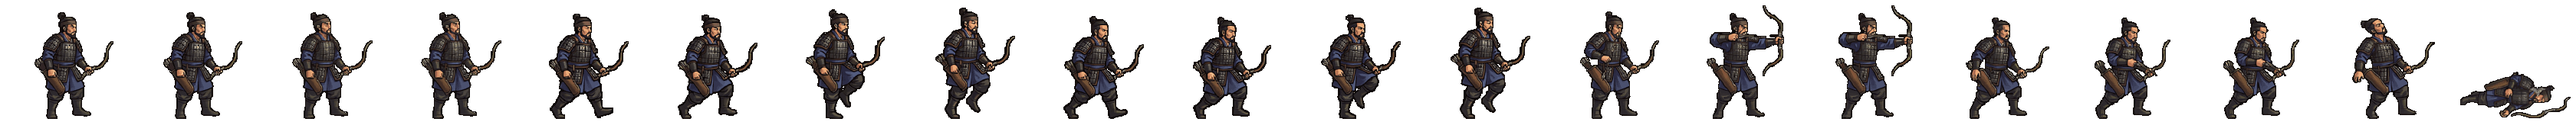
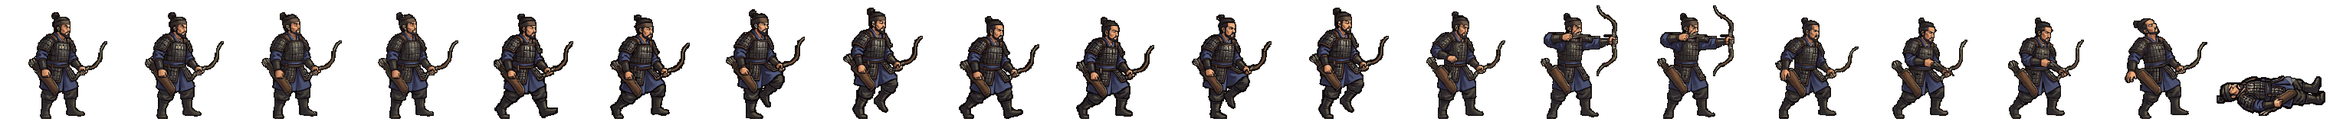
오간 띠: 쓰러짐 19칸만 새로 갈아 끼움 — 활이 칸 오른쪽에 잘리던 것 해결 (나머지 19칸은 그대로)
Claude-Session: https://claude.ai/code/session_01TRiuN9kn81xgdziumEqNAF

diff --git a/src/realm/data/spritePx.ts b/src/realm/data/spritePx.ts
@@ -1,2 +1,2 @@
 /** public/realm/anim-px/manifest.json 의 사본 — tools/sprite-normalize.mjs 가 만든다 (손으로 고치지 말 것). 칸 [가로, 세로] · feet = 발 줄(칸 위에서 y) · bodyPx = 서 있는 몸 키 */
-export const SPRITE_PX: Readonly<Record<string, { readonly cell: readonly [number, number]; readonly feet: number; readonly bodyPx: number; readonly kind: 'general' | 'soldier' | 'folk' | 'crowd'; readonly cells: number }>> = {"axe":{"cell":[166,128],"feet":126,"bodyPx":124,"kind":"soldier","cells":20},"bandit-chief":{"cell":[116,128],"feet":126,"bodyPx":117,"kind":"soldier","cells":20},"bandit-club":{"cell":[127,128],"feet":126,"bodyPx":116,"kind":"soldier","cells":20},"boat":{"cell":[269,128],"feet":126,"bodyPx":126,"kind":"soldier","cells":20},"bow":{"cell":[503,128],"feet":126,"bodyPx":127,"kind":"soldier","cells":20},"crossbow":{"cell":[614,128],"feet":126,"bodyPx":126,"kind":"soldier","cells":20},"gen-adogan":{"cell":[144,160],"feet":156,"bodyPx":70,"kind":"general","cells":20},"gen-alpyeong":{"cell":[144,160],"feet":156,"bodyPx":70,"kind":"general","cells":20},"gen-ara":{"cell":[160,160],"feet":156,"bodyPx":70,"kind":"general","cells":20},"gen-areum":{"cell":[160,160],"feet":156,"bodyPx":70,"kind":"general","cells":20},"gen-aryeong":{"cell":[208,160],"feet":156,"bodyPx":70,"kind":"general","cells":20},"gen-bakdal":{"cell":[160,160],"feet":156,"bodyPx":70,"kind":"general","cells":20},"gen-baram":{"cell":[176,160],"feet":156,"bodyPx":70,"kind":"general","cells":20},"gen-bdanbi":{"cell":[152,160],"feet":156,"bodyPx":70,"kind":"general","cells":20},"gen-beom":{"cell":[168,160],"feet":156,"bodyPx":70,"kind":"general","cells":20},"gen-beombal":{"cell":[216,160],"feet":156,"bodyPx":70,"kind":"general","cells":20},"gen-beomi":{"cell":[160,160],"feet":156,"bodyPx":70,"kind":"general","cells":20},"gen-bira":{"cell":[176,160],"feet":156,"bodyPx":70,"kind":"general","cells":20},"gen-biryu":{"cell":[160,160],"feet":156,"bodyPx":73,"kind":"general","cells":20},"gen-budeul":{"cell":[248,160],"feet":156,"bodyPx":70,"kind":"general","cells":20},"gen-byeol":{"cell":[160,160],"feet":156,"bodyPx":70,"kind":"general","cells":20},"gen-daemusin":{"cell":[152,160],"feet":156,"bodyPx":70,"kind":"general","cells":20},"gen-daeso":{"cell":[176,160],"feet":156,"bodyPx":70,"kind":"general","cells":20},"gen-dallae2":{"cell":[168,160],"feet":156,"bodyPx":70,"kind":"general","cells":20},"gen-dalli":{"cell":[152,160],"feet":156,"bodyPx":70,"kind":"general","cells":20},"gen-damul":{"cell":[152,160],"feet":156,"bodyPx":70,"kind":"general","cells":20},"gen-danbi":{"cell":[152,160],"feet":156,"bodyPx":70,"kind":"general","cells":20},"gen-dangung":{"cell":[192,160],"feet":156,"bodyPx":70,"kind":"general","cells":20},"gen-darae":{"cell":[152,160],"feet":156,"bodyPx":70,"kind":"general","cells":20},"gen-dokmudeom":{"cell":[176,160],"feet":156,"bodyPx":70,"kind":"general","cells":20},"gen-duman":{"cell":[160,160],"feet":156,"bodyPx":70,"kind":"general","cells":20},"gen-eomni":{"cell":[160,160],"feet":156,"bodyPx":70,"kind":"general","cells":20},"gen-eureum":{"cell":[144,160],"feet":156,"bodyPx":70,"kind":"general","cells":20},"gen-g-bow":{"cell":[144,160],"feet":156,"bodyPx":70,"kind":"general","cells":20},"gen-g-spear":{"cell":[208,160],"feet":156,"bodyPx":70,"kind":"general","cells":20},"gen-g-sword":{"cell":[192,160],"feet":156,"bodyPx":70,"kind":"general","cells":20},"gen-gaennae":{"cell":[232,160],"feet":156,"bodyPx":70,"kind":"general","cells":20},"gen-gamsil":{"cell":[160,160],"feet":156,"bodyPx":70,"kind":"general","cells":20},"gen-gaon":{"cell":[152,160],"feet":156,"bodyPx":70,"kind":"general","cells":20},"gen-geota":{"cell":[192,160],"feet":156,"bodyPx":69,"kind":"general","cells":20},"gen-geumbawi":{"cell":[160,160],"feet":156,"bodyPx":70,"kind":"general","cells":20},"gen-geumha":{"cell":[192,160],"feet":156,"bodyPx":72,"kind":"general","cells":20},"gen-goeun":{"cell":[144,160],"feet":156,"bodyPx":70,"kind":"general","cells":20},"gen-gom":{"cell":[168,160],"feet":156,"bodyPx":70,"kind":"general","cells":20},"gen-gomok":{"cell":[152,160],"feet":156,"bodyPx":70,"kind":"general","cells":20},"gen-gureum":{"cell":[168,160],"feet":156,"bodyPx":70,"kind":"general","cells":20},"gen-guryema":{"cell":[152,160],"feet":156,"bodyPx":70,"kind":"general","cells":20},"gen-gwaeyu":{"cell":[200,160],"feet":156,"bodyPx":70,"kind":"general","cells":20},"gen-haebi":{"cell":[152,160],"feet":156,"bodyPx":70,"kind":"general","cells":20},"gen-haedal":{"cell":[152,160],"feet":156,"bodyPx":70,"kind":"general","cells":20},"gen-haesol":{"cell":[168,160],"feet":156,"bodyPx":70,"kind":"general","cells":20},"gen-halla":{"cell":[176,160],"feet":156,"bodyPx":70,"kind":"general","cells":20},"gen-heo":{"cell":[144,160],"feet":156,"bodyPx":70,"kind":"general","cells":20},"gen-hneoul":{"cell":[152,160],"feet":156,"bodyPx":70,"kind":"general","cells":20},"gen-hogong":{"cell":[160,160],"feet":156,"bodyPx":70,"kind":"general","cells":20},"gen-hojin":{"cell":[152,160],"feet":156,"bodyPx":70,"kind":"general","cells":20},"gen-horselord":{"cell":[144,160],"feet":156,"bodyPx":70,"kind":"general","cells":20},"gen-hwalmi":{"cell":[192,160],"feet":156,"bodyPx":70,"kind":"general","cells":20},"gen-hyeokgeose":{"cell":[160,160],"feet":156,"bodyPx":70,"kind":"general","cells":20},"gen-hyeopbo":{"cell":[168,160],"feet":156,"bodyPx":70,"kind":"general","cells":20},"gen-irang":{"cell":[160,160],"feet":156,"bodyPx":70,"kind":"general","cells":20},"gen-jibaekho":{"cell":[160,160],"feet":156,"bodyPx":70,"kind":"general","cells":20},"gen-jinha":{"cell":[168,160],"feet":156,"bodyPx":70,"kind":"general","cells":20},"gen-jita":{"cell":[144,160],"feet":156,"bodyPx":70,"kind":"general","cells":20},"gen-jumong":{"cell":[144,160],"feet":156,"bodyPx":70,"kind":"general","cells":20},"gen-keundol":{"cell":[152,160],"feet":156,"bodyPx":70,"kind":"general","cells":20},"gen-maehwa":{"cell":[144,160],"feet":156,"bodyPx":70,"kind":"general","cells":20},"gen-maenun":{"cell":[136,160],"feet":156,"bodyPx":70,"kind":"general","cells":20},"gen-malgalgi":{"cell":[168,160],"feet":156,"bodyPx":70,"kind":"general","cells":20},"gen-mari":{"cell":[152,160],"feet":156,"bodyPx":70,"kind":"general","cells":20},"gen-maro":{"cell":[160,160],"feet":156,"bodyPx":70,"kind":"general","cells":20},"gen-maryeo":{"cell":[152,160],"feet":156,"bodyPx":70,"kind":"general","cells":20},"gen-mdallae":{"cell":[168,160],"feet":156,"bodyPx":70,"kind":"general","cells":20},"gen-mir":{"cell":[144,160],"feet":156,"bodyPx":70,"kind":"general","cells":20},"gen-mount":{"cell":[232,160],"feet":156,"bodyPx":73,"kind":"general","cells":20},"gen-mulbeom":{"cell":[160,160],"feet":156,"bodyPx":70,"kind":"general","cells":20},"gen-mulsae":{"cell":[168,160],"feet":156,"bodyPx":70,"kind":"general","cells":20},"gen-musoe":{"cell":[152,160],"feet":156,"bodyPx":70,"kind":"general","cells":20},"gen-noeul":{"cell":[160,160],"feet":156,"bodyPx":70,"kind":"general","cells":20},"gen-nuri":{"cell":[168,160],"feet":156,"bodyPx":70,"kind":"general","cells":20},"gen-ocheongan":{"cell":[168,160],"feet":156,"bodyPx":70,"kind":"general","cells":20},"gen-odi":{"cell":[152,160],"feet":156,"bodyPx":70,"kind":"general","cells":20},"gen-odogan":{"cell":[168,160],"feet":156,"bodyPx":70,"kind":"general","cells":20},"gen-ogan":{"cell":[168,160],"feet":156,"bodyPx":70,"kind":"general","cells":20},"gen-oi":{"cell":[152,160],"feet":156,"bodyPx":70,"kind":"general","cells":20},"gen-olddaeso":{"cell":[144,160],"feet":156,"bodyPx":70,"kind":"general","cells":20},"gen-onjo":{"cell":[152,160],"feet":156,"bodyPx":70,"kind":"general","cells":20},"gen-pidogan":{"cell":[152,160],"feet":156,"bodyPx":70,"kind":"general","cells":20},"gen-sagong":{"cell":[160,160],"feet":156,"bodyPx":70,"kind":"general","cells":20},"gen-sdallae":{"cell":[168,160],"feet":156,"bodyPx":70,"kind":"general","cells":20},"gen-sincheongan":{"cell":[160,160],"feet":156,"bodyPx":70,"kind":"general","cells":20},"gen-singwigan":{"cell":[208,160],"feet":156,"bodyPx":70,"kind":"general","cells":20},"gen-sinneoul":{"cell":[176,160],"feet":156,"bodyPx":70,"kind":"general","cells":20},"gen-sobeol":{"cell":[152,160],"feet":156,"bodyPx":70,"kind":"general","cells":20},"gen-soebi":{"cell":[160,160],"feet":156,"bodyPx":70,"kind":"general","cells":20},"gen-soebo":{"cell":[208,160],"feet":156,"bodyPx":72,"kind":"general","cells":20},"gen-soenun":{"cell":[248,160],"feet":156,"bodyPx":70,"kind":"general","cells":20},"gen-sogeumbi":{"cell":[192,160],"feet":156,"bodyPx":70,"kind":"general","cells":20},"gen-songbi":{"cell":[152,160],"feet":156,"bodyPx":70,"kind":"general","cells":20},"gen-songyang":{"cell":[136,160],"feet":156,"bodyPx":70,"kind":"general","cells":20},"gen-sori":{"cell":[208,160],"feet":156,"bodyPx":70,"kind":"general","cells":20},"gen-soseono":{"cell":[208,160],"feet":156,"bodyPx":70,"kind":"general","cells":20},"gen-suro":{"cell":[160,160],"feet":156,"bodyPx":70,"kind":"general","cells":20},"gen-tahae":{"cell":[152,160],"feet":156,"bodyPx":70,"kind":"general","cells":20},"gen-tneoul":{"cell":[152,160],"feet":156,"bodyPx":70,"kind":"general","cells":20},"gen-w-bow":{"cell":[128,160],"feet":156,"bodyPx":70,"kind":"general","cells":20},"gen-w-spear":{"cell":[176,160],"feet":156,"bodyPx":70,"kind":"general","cells":20},"gen-waechief":{"cell":[152,160],"feet":156,"bodyPx":70,"kind":"general","cells":20},"gen-wan":{"cell":[144,160],"feet":156,"bodyPx":70,"kind":"general","cells":20},"gen-yeodogan":{"cell":[176,160],"feet":156,"bodyPx":70,"kind":"general","cells":20},"gen-yucheongan":{"cell":[152,160],"feet":156,"bodyPx":70,"kind":"general","cells":20},"gen-yusugan":{"cell":[168,160],"feet":156,"bodyPx":70,"kind":"general","cells":20},"horse":{"cell":[186,128],"feet":126,"bodyPx":127,"kind":"soldier","cells":20},"marine":{"cell":[298,128],"feet":126,"bodyPx":126,"kind":"soldier","cells":20},"migrant":{"cell":[82,128],"feet":126,"bodyPx":114,"kind":"folk","cells":8},"militia":{"cell":[134,128],"feet":126,"bodyPx":119,"kind":"soldier","cells":20},"pike":{"cell":[380,128],"feet":126,"bodyPx":124,"kind":"soldier","cells":20},"pirate-captain":{"cell":[114,128],"feet":126,"bodyPx":115,"kind":"soldier","cells":20},"pirate-sword":{"cell":[122,128],"feet":126,"bodyPx":114,"kind":"soldier","cells":20},"shield":{"cell":[254,128],"feet":126,"bodyPx":128,"kind":"soldier","cells":20},"spear":{"cell":[438,128],"feet":126,"bodyPx":126,"kind":"soldier","cells":20},"villager-builder":{"cell":[88,128],"feet":126,"bodyPx":113,"kind":"folk","cells":8},"villager-farmer":{"cell":[100,128],"feet":126,"bodyPx":115,"kind":"folk","cells":8},"villager-porter":{"cell":[108,128],"feet":126,"bodyPx":115,"kind":"folk","cells":8},"villager-woman":{"cell":[63,128],"feet":126,"bodyPx":113,"kind":"folk","cells":8},"crowd-b1":{"cell":[69,96],"feet":96,"bodyPx":96,"kind":"crowd","cells":1},"crowd-b2":{"cell":[54,96],"feet":96,"bodyPx":96,"kind":"crowd","cells":1},"crowd-b3":{"cell":[47,96],"feet":96,"bodyPx":96,"kind":"crowd","cells":1},"crowd-b4":{"cell":[49,96],"feet":96,"bodyPx":96,"kind":"crowd","cells":1},"crowd-b5":{"cell":[57,96],"feet":96,"bodyPx":96,"kind":"crowd","cells":1},"crowd-b6":{"cell":[55,96],"feet":96,"bodyPx":96,"kind":"crowd","cells":1},"crowd-f1":{"cell":[69,96],"feet":96,"bodyPx":96,"kind":"crowd","cells":1},"crowd-f2":{"cell":[55,96],"feet":96,"bodyPx":96,"kind":"crowd","cells":1},"crowd-f3":{"cell":[45,96],"feet":96,"bodyPx":96,"kind":"crowd","cells":1},"crowd-f4":{"cell":[53,96],"feet":96,"bodyPx":96,"kind":"crowd","cells":1},"crowd-f5":{"cell":[69,96],"feet":96,"bodyPx":96,"kind":"crowd","cells":1},"crowd-f6":{"cell":[64,96],"feet":96,"bodyPx":96,"kind":"crowd","cells":1},"gen-dalbit":{"cell":[96,72],"feet":72,"bodyPx":72,"kind":"general","cells":20}}
+export const SPRITE_PX: Readonly<Record<string, { readonly cell: readonly [number, number]; readonly feet: number; readonly bodyPx: number; readonly kind: 'general' | 'soldier' | 'folk' | 'crowd'; readonly cells: number }>> = {"axe":{"cell":[166,128],"feet":126,"bodyPx":124,"kind":"soldier","cells":20},"bandit-chief":{"cell":[116,128],"feet":126,"bodyPx":117,"kind":"soldier","cells":20},"bandit-club":{"cell":[127,128],"feet":126,"bodyPx":116,"kind":"soldier","cells":20},"boat":{"cell":[269,128],"feet":126,"bodyPx":126,"kind":"soldier","cells":20},"bow":{"cell":[503,128],"feet":126,"bodyPx":127,"kind":"soldier","cells":20},"crossbow":{"cell":[614,128],"feet":126,"bodyPx":126,"kind":"soldier","cells":20},"gen-adogan":{"cell":[144,160],"feet":156,"bodyPx":70,"kind":"general","cells":20},"gen-alpyeong":{"cell":[144,160],"feet":156,"bodyPx":70,"kind":"general","cells":20},"gen-ara":{"cell":[160,160],"feet":156,"bodyPx":70,"kind":"general","cells":20},"gen-areum":{"cell":[160,160],"feet":156,"bodyPx":70,"kind":"general","cells":20},"gen-aryeong":{"cell":[208,160],"feet":156,"bodyPx":70,"kind":"general","cells":20},"gen-bakdal":{"cell":[160,160],"feet":156,"bodyPx":70,"kind":"general","cells":20},"gen-baram":{"cell":[176,160],"feet":156,"bodyPx":70,"kind":"general","cells":20},"gen-bdanbi":{"cell":[152,160],"feet":156,"bodyPx":70,"kind":"general","cells":20},"gen-beom":{"cell":[168,160],"feet":156,"bodyPx":70,"kind":"general","cells":20},"gen-beombal":{"cell":[216,160],"feet":156,"bodyPx":70,"kind":"general","cells":20},"gen-beomi":{"cell":[160,160],"feet":156,"bodyPx":70,"kind":"general","cells":20},"gen-bira":{"cell":[176,160],"feet":156,"bodyPx":70,"kind":"general","cells":20},"gen-biryu":{"cell":[160,160],"feet":156,"bodyPx":73,"kind":"general","cells":20},"gen-budeul":{"cell":[248,160],"feet":156,"bodyPx":70,"kind":"general","cells":20},"gen-byeol":{"cell":[160,160],"feet":156,"bodyPx":70,"kind":"general","cells":20},"gen-daemusin":{"cell":[152,160],"feet":156,"bodyPx":70,"kind":"general","cells":20},"gen-daeso":{"cell":[176,160],"feet":156,"bodyPx":70,"kind":"general","cells":20},"gen-dallae2":{"cell":[168,160],"feet":156,"bodyPx":70,"kind":"general","cells":20},"gen-dalli":{"cell":[152,160],"feet":156,"bodyPx":70,"kind":"general","cells":20},"gen-damul":{"cell":[152,160],"feet":156,"bodyPx":70,"kind":"general","cells":20},"gen-danbi":{"cell":[152,160],"feet":156,"bodyPx":70,"kind":"general","cells":20},"gen-dangung":{"cell":[192,160],"feet":156,"bodyPx":70,"kind":"general","cells":20},"gen-darae":{"cell":[152,160],"feet":156,"bodyPx":70,"kind":"general","cells":20},"gen-dokmudeom":{"cell":[176,160],"feet":156,"bodyPx":70,"kind":"general","cells":20},"gen-duman":{"cell":[160,160],"feet":156,"bodyPx":70,"kind":"general","cells":20},"gen-eomni":{"cell":[160,160],"feet":156,"bodyPx":70,"kind":"general","cells":20},"gen-eureum":{"cell":[144,160],"feet":156,"bodyPx":70,"kind":"general","cells":20},"gen-g-bow":{"cell":[144,160],"feet":156,"bodyPx":70,"kind":"general","cells":20},"gen-g-spear":{"cell":[208,160],"feet":156,"bodyPx":70,"kind":"general","cells":20},"gen-g-sword":{"cell":[192,160],"feet":156,"bodyPx":70,"kind":"general","cells":20},"gen-gaennae":{"cell":[232,160],"feet":156,"bodyPx":70,"kind":"general","cells":20},"gen-gamsil":{"cell":[160,160],"feet":156,"bodyPx":70,"kind":"general","cells":20},"gen-gaon":{"cell":[152,160],"feet":156,"bodyPx":70,"kind":"general","cells":20},"gen-geota":{"cell":[192,160],"feet":156,"bodyPx":69,"kind":"general","cells":20},"gen-geumbawi":{"cell":[160,160],"feet":156,"bodyPx":70,"kind":"general","cells":20},"gen-geumha":{"cell":[192,160],"feet":156,"bodyPx":72,"kind":"general","cells":20},"gen-goeun":{"cell":[144,160],"feet":156,"bodyPx":70,"kind":"general","cells":20},"gen-gom":{"cell":[168,160],"feet":156,"bodyPx":70,"kind":"general","cells":20},"gen-gomok":{"cell":[152,160],"feet":156,"bodyPx":70,"kind":"general","cells":20},"gen-gureum":{"cell":[168,160],"feet":156,"bodyPx":70,"kind":"general","cells":20},"gen-guryema":{"cell":[152,160],"feet":156,"bodyPx":70,"kind":"general","cells":20},"gen-gwaeyu":{"cell":[200,160],"feet":156,"bodyPx":70,"kind":"general","cells":20},"gen-haebi":{"cell":[152,160],"feet":156,"bodyPx":70,"kind":"general","cells":20},"gen-haedal":{"cell":[152,160],"feet":156,"bodyPx":70,"kind":"general","cells":20},"gen-haesol":{"cell":[168,160],"feet":156,"bodyPx":70,"kind":"general","cells":20},"gen-halla":{"cell":[176,160],"feet":156,"bodyPx":70,"kind":"general","cells":20},"gen-heo":{"cell":[144,160],"feet":156,"bodyPx":70,"kind":"general","cells":20},"gen-hneoul":{"cell":[152,160],"feet":156,"bodyPx":70,"kind":"general","cells":20},"gen-hogong":{"cell":[160,160],"feet":156,"bodyPx":70,"kind":"general","cells":20},"gen-hojin":{"cell":[152,160],"feet":156,"bodyPx":70,"kind":"general","cells":20},"gen-horselord":{"cell":[144,160],"feet":156,"bodyPx":70,"kind":"general","cells":20},"gen-hwalmi":{"cell":[192,160],"feet":156,"bodyPx":70,"kind":"general","cells":20},"gen-hyeokgeose":{"cell":[160,160],"feet":156,"bodyPx":70,"kind":"general","cells":20},"gen-hyeopbo":{"cell":[168,160],"feet":156,"bodyPx":70,"kind":"general","cells":20},"gen-irang":{"cell":[160,160],"feet":156,"bodyPx":70,"kind":"general","cells":20},"gen-jibaekho":{"cell":[160,160],"feet":156,"bodyPx":70,"kind":"general","cells":20},"gen-jinha":{"cell":[168,160],"feet":156,"bodyPx":70,"kind":"general","cells":20},"gen-jita":{"cell":[144,160],"feet":156,"bodyPx":70,"kind":"general","cells":20},"gen-jumong":{"cell":[144,160],"feet":156,"bodyPx":70,"kind":"general","cells":20},"gen-keundol":{"cell":[152,160],"feet":156,"bodyPx":70,"kind":"general","cells":20},"gen-maehwa":{"cell":[144,160],"feet":156,"bodyPx":70,"kind":"general","cells":20},"gen-maenun":{"cell":[136,160],"feet":156,"bodyPx":70,"kind":"general","cells":20},"gen-malgalgi":{"cell":[168,160],"feet":156,"bodyPx":70,"kind":"general","cells":20},"gen-mari":{"cell":[152,160],"feet":156,"bodyPx":70,"kind":"general","cells":20},"gen-maro":{"cell":[160,160],"feet":156,"bodyPx":70,"kind":"general","cells":20},"gen-maryeo":{"cell":[152,160],"feet":156,"bodyPx":70,"kind":"general","cells":20},"gen-mdallae":{"cell":[168,160],"feet":156,"bodyPx":70,"kind":"general","cells":20},"gen-mir":{"cell":[144,160],"feet":156,"bodyPx":70,"kind":"general","cells":20},"gen-mount":{"cell":[232,160],"feet":156,"bodyPx":73,"kind":"general","cells":20},"gen-mulbeom":{"cell":[160,160],"feet":156,"bodyPx":70,"kind":"general","cells":20},"gen-mulsae":{"cell":[168,160],"feet":156,"bodyPx":70,"kind":"general","cells":20},"gen-musoe":{"cell":[152,160],"feet":156,"bodyPx":70,"kind":"general","cells":20},"gen-noeul":{"cell":[160,160],"feet":156,"bodyPx":70,"kind":"general","cells":20},"gen-nuri":{"cell":[168,160],"feet":156,"bodyPx":70,"kind":"general","cells":20},"gen-ocheongan":{"cell":[168,160],"feet":156,"bodyPx":70,"kind":"general","cells":20},"gen-odi":{"cell":[152,160],"feet":156,"bodyPx":70,"kind":"general","cells":20},"gen-odogan":{"cell":[168,160],"feet":156,"bodyPx":70,"kind":"general","cells":20},"gen-ogan":{"cell":[152,160],"feet":156,"bodyPx":70,"kind":"general","cells":20},"gen-oi":{"cell":[152,160],"feet":156,"bodyPx":70,"kind":"general","cells":20},"gen-olddaeso":{"cell":[144,160],"feet":156,"bodyPx":70,"kind":"general","cells":20},"gen-onjo":{"cell":[152,160],"feet":156,"bodyPx":70,"kind":"general","cells":20},"gen-pidogan":{"cell":[152,160],"feet":156,"bodyPx":70,"kind":"general","cells":20},"gen-sagong":{"cell":[160,160],"feet":156,"bodyPx":70,"kind":"general","cells":20},"gen-sdallae":{"cell":[168,160],"feet":156,"bodyPx":70,"kind":"general","cells":20},"gen-sincheongan":{"cell":[160,160],"feet":156,"bodyPx":70,"kind":"general","cells":20},"gen-singwigan":{"cell":[208,160],"feet":156,"bodyPx":70,"kind":"general","cells":20},"gen-sinneoul":{"cell":[176,160],"feet":156,"bodyPx":70,"kind":"general","cells":20},"gen-sobeol":{"cell":[152,160],"feet":156,"bodyPx":70,"kind":"general","cells":20},"gen-soebi":{"cell":[160,160],"feet":156,"bodyPx":70,"kind":"general","cells":20},"gen-soebo":{"cell":[208,160],"feet":156,"bodyPx":72,"kind":"general","cells":20},"gen-soenun":{"cell":[248,160],"feet":156,"bodyPx":70,"kind":"general","cells":20},"gen-sogeumbi":{"cell":[192,160],"feet":156,"bodyPx":70,"kind":"general","cells":20},"gen-songbi":{"cell":[152,160],"feet":156,"bodyPx":70,"kind":"general","cells":20},"gen-songyang":{"cell":[136,160],"feet":156,"bodyPx":70,"kind":"general","cells":20},"gen-sori":{"cell":[208,160],"feet":156,"bodyPx":70,"kind":"general","cells":20},"gen-soseono":{"cell":[208,160],"feet":156,"bodyPx":70,"kind":"general","cells":20},"gen-suro":{"cell":[160,160],"feet":156,"bodyPx":70,"kind":"general","cells":20},"gen-tahae":{"cell":[152,160],"feet":156,"bodyPx":70,"kind":"general","cells":20},"gen-tneoul":{"cell":[152,160],"feet":156,"bodyPx":70,"kind":"general","cells":20},"gen-w-bow":{"cell":[128,160],"feet":156,"bodyPx":70,"kind":"general","cells":20},"gen-w-spear":{"cell":[176,160],"feet":156,"bodyPx":70,"kind":"general","cells":20},"gen-waechief":{"cell":[152,160],"feet":156,"bodyPx":70,"kind":"general","cells":20},"gen-wan":{"cell":[144,160],"feet":156,"bodyPx":70,"kind":"general","cells":20},"gen-yeodogan":{"cell":[176,160],"feet":156,"bodyPx":70,"kind":"general","cells":20},"gen-yucheongan":{"cell":[152,160],"feet":156,"bodyPx":70,"kind":"general","cells":20},"gen-yusugan":{"cell":[168,160],"feet":156,"bodyPx":70,"kind":"general","cells":20},"horse":{"cell":[186,128],"feet":126,"bodyPx":127,"kind":"soldier","cells":20},"marine":{"cell":[298,128],"feet":126,"bodyPx":126,"kind":"soldier","cells":20},"migrant":{"cell":[82,128],"feet":126,"bodyPx":114,"kind":"folk","cells":8},"militia":{"cell":[134,128],"feet":126,"bodyPx":119,"kind":"soldier","cells":20},"pike":{"cell":[380,128],"feet":126,"bodyPx":124,"kind":"soldier","cells":20},"pirate-captain":{"cell":[114,128],"feet":126,"bodyPx":115,"kind":"soldier","cells":20},"pirate-sword":{"cell":[122,128],"feet":126,"bodyPx":114,"kind":"soldier","cells":20},"shield":{"cell":[254,128],"feet":126,"bodyPx":128,"kind":"soldier","cells":20},"spear":{"cell":[438,128],"feet":126,"bodyPx":126,"kind":"soldier","cells":20},"villager-builder":{"cell":[88,128],"feet":126,"bodyPx":113,"kind":"folk","cells":8},"villager-farmer":{"cell":[100,128],"feet":126,"bodyPx":115,"kind":"folk","cells":8},"villager-porter":{"cell":[108,128],"feet":126,"bodyPx":115,"kind":"folk","cells":8},"villager-woman":{"cell":[63,128],"feet":126,"bodyPx":113,"kind":"folk","cells":8},"crowd-b1":{"cell":[69,96],"feet":96,"bodyPx":96,"kind":"crowd","cells":1},"crowd-b2":{"cell":[54,96],"feet":96,"bodyPx":96,"kind":"crowd","cells":1},"crowd-b3":{"cell":[47,96],"feet":96,"bodyPx":96,"kind":"crowd","cells":1},"crowd-b4":{"cell":[49,96],"feet":96,"bodyPx":96,"kind":"crowd","cells":1},"crowd-b5":{"cell":[57,96],"feet":96,"bodyPx":96,"kind":"crowd","cells":1},"crowd-b6":{"cell":[55,96],"feet":96,"bodyPx":96,"kind":"crowd","cells":1},"crowd-f1":{"cell":[69,96],"feet":96,"bodyPx":96,"kind":"crowd","cells":1},"crowd-f2":{"cell":[55,96],"feet":96,"bodyPx":96,"kind":"crowd","cells":1},"crowd-f3":{"cell":[45,96],"feet":96,"bodyPx":96,"kind":"crowd","cells":1},"crowd-f4":{"cell":[53,96],"feet":96,"bodyPx":96,"kind":"crowd","cells":1},"crowd-f5":{"cell":[69,96],"feet":96,"bodyPx":96,"kind":"crowd","cells":1},"crowd-f6":{"cell":[64,96],"feet":96,"bodyPx":96,"kind":"crowd","cells":1},"gen-dalbit":{"cell":[96,72],"feet":72,"bodyPx":72,"kind":"general","cells":20}}
